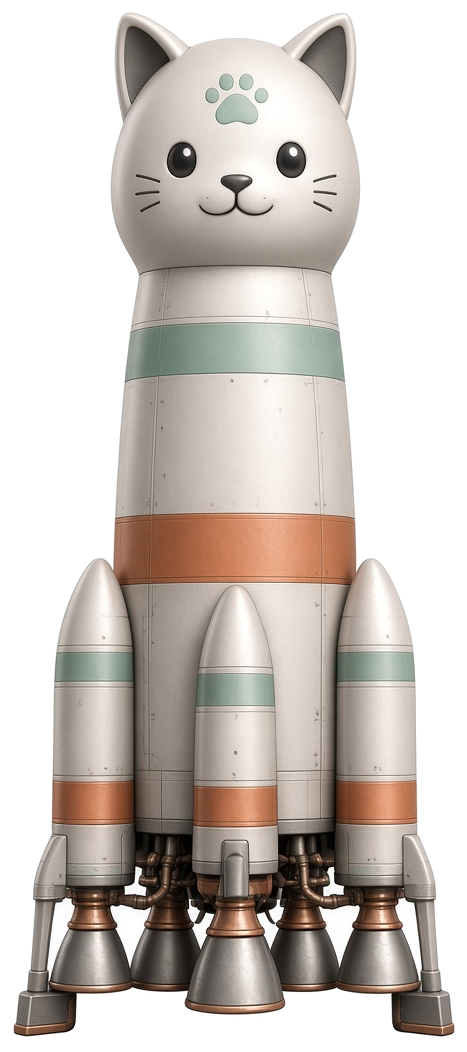
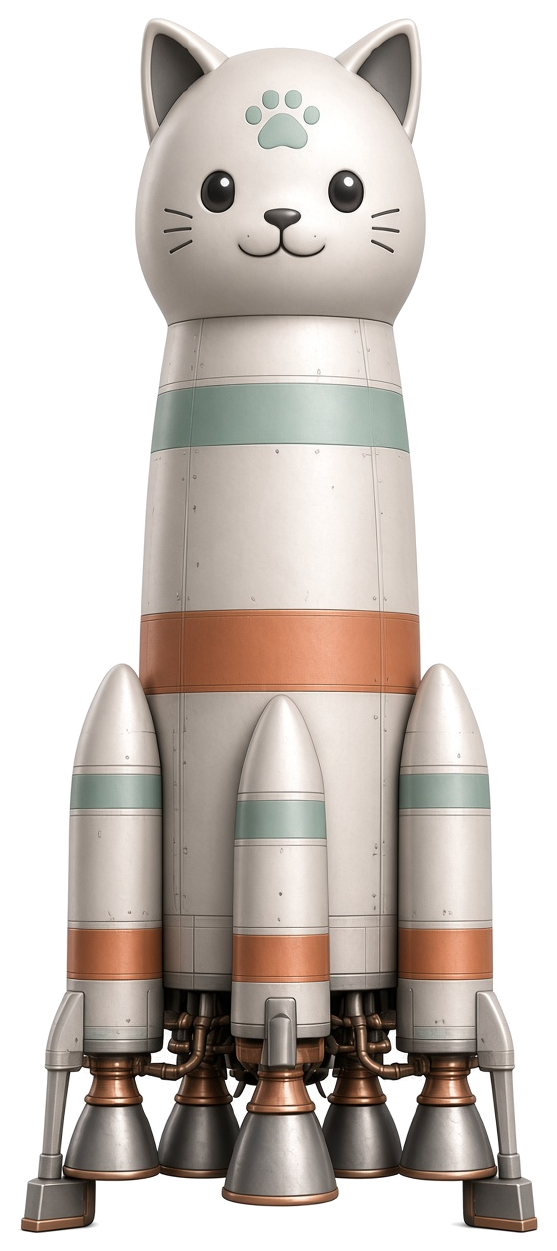
Replace the launch rocket with a clean transparent sprite
The old cut left white scraps on the nozzles and feet. The new PNG is the same cat rocket with the background removed and those scraps gone.

diff --git a/src/components/game/launch.tsx b/src/components/game/launch.tsx
@@ -84,8 +84,8 @@ export function Launch({ t, craft }: { t: number; craft: Craft | null }) {
             <img
               src="/game/launch-rocket.png"
               alt="Камыш-2"
-              width={467}
-              height={1052}
+              width={557}
+              height={1251}
               className="relative z-10 h-auto w-full"
               draggable={false}
             />
